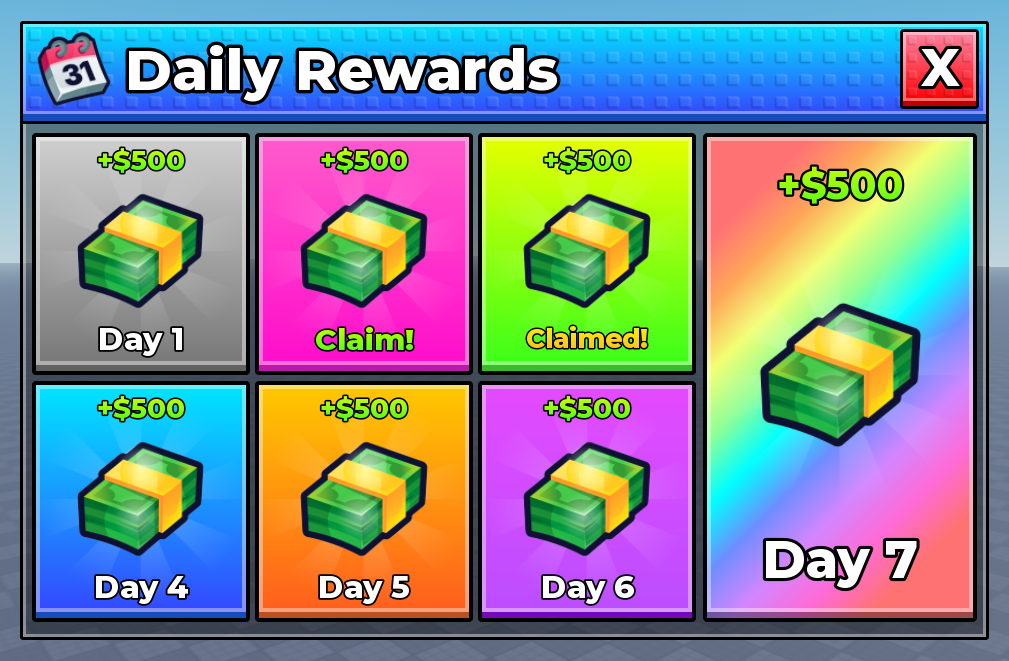
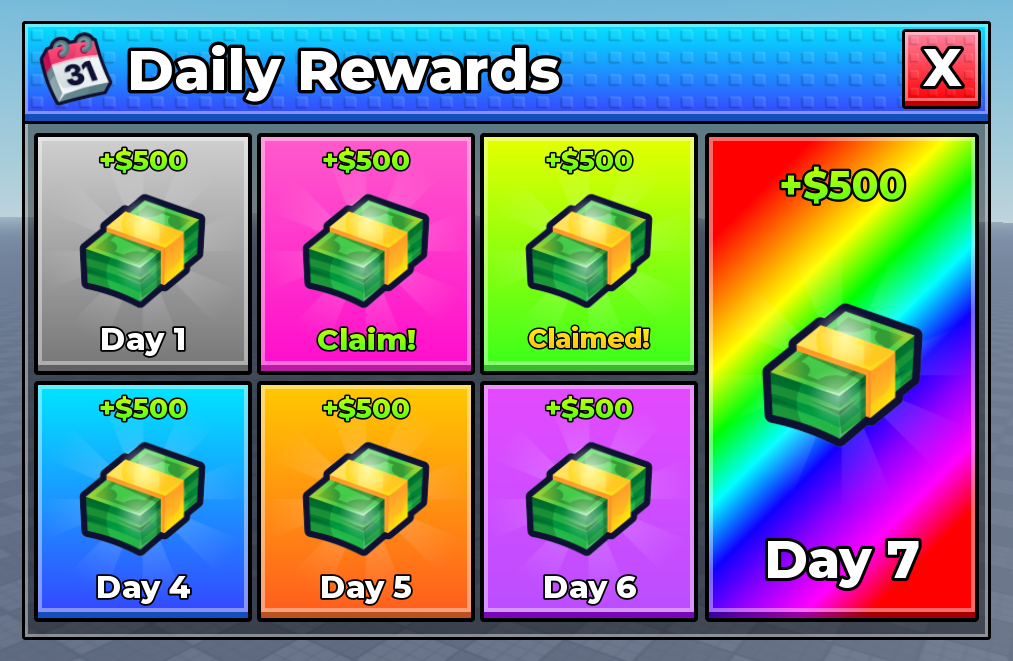
Replace Daily Rewards screenshot with updated version

diff --git a/index.html b/index.html
@@ -8,7 +8,7 @@
   <link rel="preconnect" href="https://fonts.googleapis.com">
   <link rel="preconnect" href="https://fonts.gstatic.com" crossorigin>
   <link href="https://fonts.googleapis.com/css2?family=Montserrat:wght@800&display=swap" rel="stylesheet">
-  <link rel="stylesheet" href="style.css?v=5">
+  <link rel="stylesheet" href="style.css?v=6">
 </head>
 <body>
 
@@ -41,6 +41,6 @@
     <p class="lightbox__caption" id="lightbox-caption"></p>
   </div>
 
-  <script src="script.js?v=4"></script>
+  <script src="script.js?v=5"></script>
 </body>
 </html>

diff --git a/script.js b/script.js
@@ -9,7 +9,7 @@ const projects = [
   { image: "images/ui-1.png", title: "Shop UI" },
   { image: "images/ui-2.png", title: "Inventory UI" },
   { image: "images/ui-3.png", title: "Settings UI" },
-  { image: "images/daily-rewards.png", title: "Daily Rewards UI" },
+  { image: "images/daily-rewards.png?v=2", title: "Daily Rewards UI" },
 ];
 
 /* ---------- Build the grid ---------- */

diff --git a/style.css b/style.css
@@ -92,7 +92,7 @@ a { color: inherit; text-decoration: none; }
 
 .card__box {
   position: relative;
-  aspect-ratio: 1009 / 661;
+  aspect-ratio: 1013 / 661;
   border-radius: var(--radius);
   background: var(--bg-card);
   border: 1px solid var(--border);
